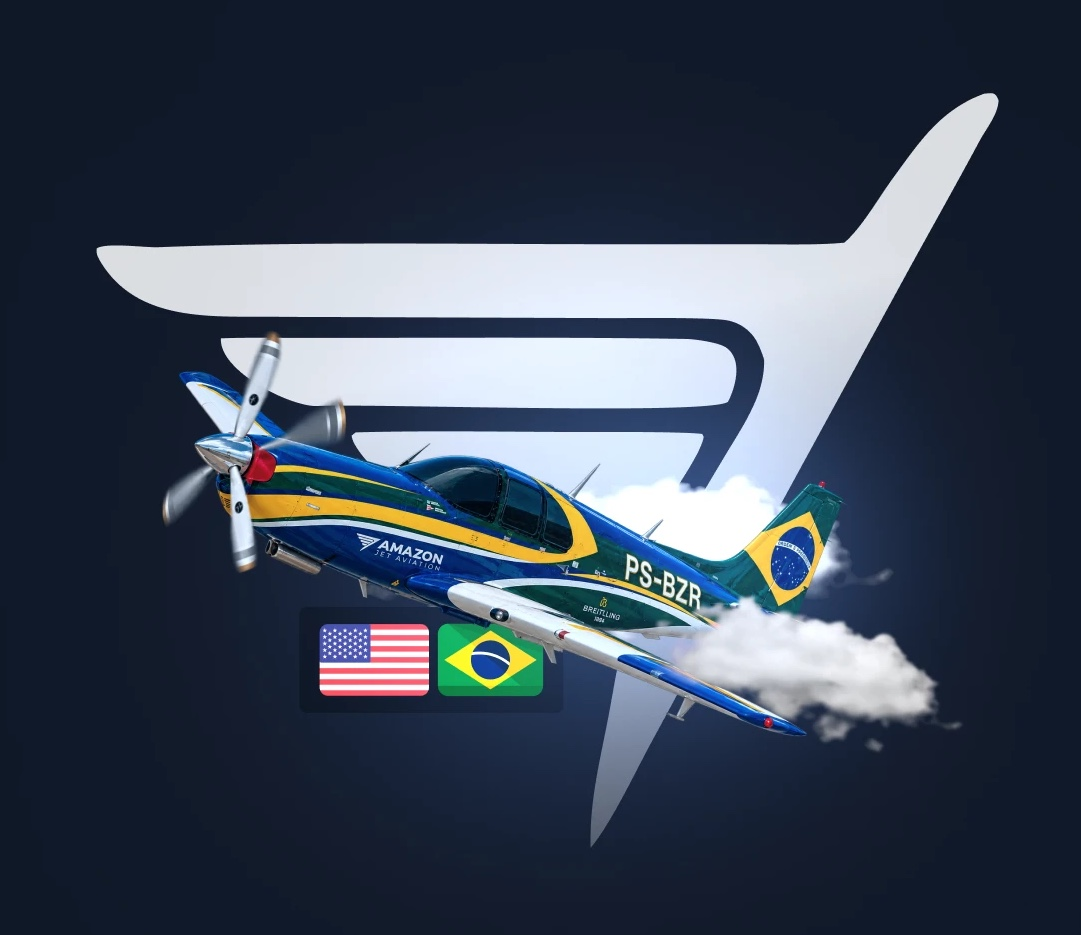
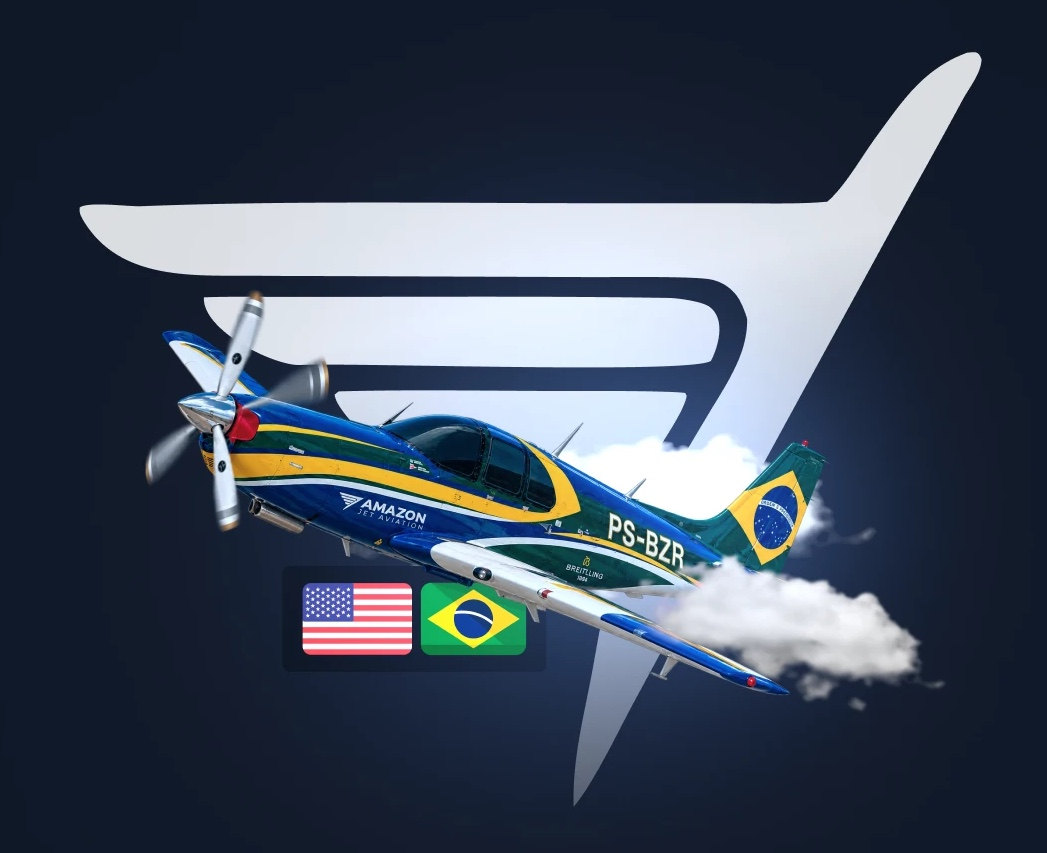
Avião de volta ao tamanho cheio e mapa animado da rota
O recorte da arte passa a ter 3,5% de margem, no lugar dos 30% que eu tinha
deixado: o avião volta a ocupar 86% do quadro, que é o tamanho marcado. A
margem continua suficiente para a iluminação morrer sozinha.

A dobra "do mercado americano para o seu hangar" ganha o mapa. É SVG
desenhado na página, sem biblioteca nem imagem: os contornos dos dois
países vêm do Natural Earth, domínio público, projetados em Mercator por
scripts/gerar-mapa.mjs e gravados como texto em mapa-paths.ts. Miami e
Brasília estão nas coordenadas reais, projetadas pelo mesmo cálculo, então
a rota desenhada é a rota de verdade.

O avião percorre a linha pelo offset-path, que recebe o mesmo caminho do
traçado — os dois não têm como sair de sincronia. Tracejado correndo,
pontos pulsando, tudo em CSS, e o prefers-reduced-motion já congela.

O SVG escala por viewBox, então serve de 320px ao monitor grande sem
recorte nem rolagem lateral.

diff --git a/src/components/home/mapa-paths.ts b/src/components/home/mapa-paths.ts
@@ -1,0 +1,20 @@
+// GERADO POR scripts/gerar-mapa.mjs — não editar à mão.
+//
+// Contornos de Estados Unidos continentais e Brasil, vindos do Natural
+// Earth (domínio público) via world-atlas, projetados em Mercator para o
+// viewBox 820x620 do mapa da rota. Ficam aqui como texto para o site não
+// carregar biblioteca de mapas nenhuma em produção.
+
+export const VIEW_BOX = '0 0 820 620';
+
+export const EUA =
+  'M159.2,43.5L175.7,43.5L193.0,43.5L198.7,43.5L216.4,43.5L233.6,43.5L251.0,43.5L268.5,43.5L288.2,43.5L308.1,43.5L320.2,43.5L320.2,40.0L322.2,40L323.2,44.9L325.0,46.4L329.0,46.9L335.0,48.3L340.6,51.0L345.3,49.9L352.5,52.2L354.4,52.1L359.6,49.6L365.1,52.8L370.7,56.1L375.4,59.0L380.0,61.7L380.5,63.9L381.9,64.8L381.5,65.6L383.1,65.9L384.2,65.0L384.5,67.0L385.7,68.3L387.3,68.3L388.1,69.3L387.4,70.8L393.5,74.7L394.7,82.2L395.9,89.2L394.2,93.9L391.4,98.3L390.2,101.0L390.0,101.8L390.7,103.0L392.7,104.2L394.1,104.2L400.9,100.0L406.9,98.8L414.5,94.8L414.6,94.0L414.1,91.6L413.1,90.0L415.7,88.8L421.5,88.7L426.8,88.7L428.7,85.6L429.4,85.0L435.5,79.1L438.1,77.6L447.0,77.5L457.7,77.5L458.3,75.5L460.1,75.1L462.6,73.8L464.7,70.0L466.4,63.5L470.9,57.0L472.8,59.3L476.7,57.8L479.3,60.3L479.3,71.8L483.1,76.5L484.1,79.2L477.9,83.1L471.9,85.9L465.8,88.3L462.7,93.0L461.7,94.8L461.6,99.0L463.6,103.2L466.0,103.4L465.4,100.5L467.1,102.2L466.7,104.5L462.7,105.7L459.9,105.6L455.6,106.9L453.1,107.3L449.7,107.7L444.9,109.9L453.4,108.5L455.1,109.9L447.0,112.2L443.3,112.3L443.5,111.3L441.7,113.5L443.4,113.8L442.2,119.3L437.9,125.0L437.5,123.1L436.2,122.7L434.3,120.8L435.5,124.9L436.9,126.2L437.1,129.0L435.2,131.9L431.9,137.8L431.4,137.5L433.2,132.5L430.2,129.7L429.5,123.5L428.4,126.7L429.6,131.4L425.8,130.2L429.8,132.6L430.1,139.6L431.7,140.1L432.3,142.6L433.1,149.8L429.5,155.1L423.4,157.2L419.6,161.3L416.7,161.7L413.8,164.3L412.9,166.7L406.6,171.1L403.3,174.4L400.5,178.5L399.6,183.3L400.7,188.0L402.6,193.7L405.2,198.4L405.2,201.2L408.0,208.8L407.8,213.2L407.5,215.7L406.1,219.7L404.4,220.5L401.5,219.7L400.6,216.9L398.4,215.4L395.3,209.8L392.6,204.8L391.7,202.3L392.9,197.9L391.3,194.2L386.7,188.6L384.5,187.6L378.6,190.7L377.6,190.3L374.7,187.2L371.1,185.5L364.5,186.4L359.4,185.6L354.9,186.1L352.5,187.1L353.6,188.9L353.5,191.6L354.7,193.0L353.6,193.8L351.4,192.8L349.3,194.1L345.0,193.9L340.7,190.4L335.6,191.2L331.4,189.7L327.8,190.1L322.9,191.7L317.6,196.6L311.8,199.5L308.6,202.6L307.3,205.6L307.3,210.1L307.6,213.2L308.6,215.4L306.4,215.6L302.3,214.2L297.7,212.2L296.1,209.1L294.8,204.5L291.4,200.8L289.4,196.9L286.5,192.4L282.3,189.7L277.6,189.8L273.9,195.1L269.1,193.1L266.1,191.1L264.7,187.4L262.7,183.9L259.3,180.9L256.3,178.7L254.2,176.3L244.1,176.3L244.1,179.1L239.5,179.1L227.9,179.2L214.7,174.4L205.9,171.0L206.4,169.7L199.0,170.4L192.4,171.0L191.5,167.4L187.7,163.4L185.0,162.6L184.3,160.6L181.1,160.2L179.0,158.3L173.6,157.6L172.1,156.5L171.4,152.6L165.8,145.4L160.9,135.3L161.1,133.6L158.6,131.2L154.1,125.0L153.3,118.8L150.2,114.7L151.4,108.3L151.2,101.6L149.4,95.6L151.7,88.1L152.4,80.7L153.1,73.3L152.0,62.0L150.2,54.7L148.5,50.6L149.2,48.9L157.6,51.9L160.7,60.0L162.1,57.8L161.2,50.7Z';
+
+export const BRASIL =
+  'M563.1,580L561.5,576.1L564.1,572.8L560.7,568.1L556.2,564.3L550.2,559.9L548.0,560.2L542.2,554.9L538.4,555.6L546.1,546.5L552.7,540.1L556.6,537.4L561.5,533.8L561.6,528.6L558.7,524.9L555.8,526.2L557.0,522.4L557.8,518.7L557.8,515.1L555.7,514.0L553.5,515.0L551.3,514.7L550.6,512.3L550.1,506.5L549.0,504.6L545.1,502.9L542.7,504.1L536.6,502.9L537.0,494.5L535.2,491.0L537.1,489.7L536.5,486.2L538.1,483.5L539.1,478.7L537.8,474.9L534.6,473.2L534.0,470.8L534.8,467.3L523.7,467.0L521.4,460.0L523.1,459.9L523.1,457.3L521.9,455.5L521.7,452.1L518.3,450.3L514.6,450.4L512.2,448.6L508.3,447.4L506.0,445.2L499.5,444.2L493.2,438.9L493.7,434.9L492.9,432.7L493.5,428.2L485.9,429.2L482.9,431.5L477.8,433.8L476.5,435.6L473.5,435.8L469.2,435.3L465.9,436.3L463.3,435.6L463.6,426.6L458.9,430.1L453.7,430.0L451.5,426.8L447.7,426.5L448.9,423.9L445.7,420.4L443.3,415.1L444.8,414.0L444.8,411.5L448.3,409.8L447.7,406.7L449.2,404.6L449.6,401.9L456.3,397.9L461.0,396.8L461.8,395.9L467.1,396.2L469.7,380.3L469.8,377.7L468.9,374.4L466.3,372.3L466.4,368.1L469.6,367.1L470.8,367.7L471.0,365.5L467.6,364.9L467.5,361.2L478.8,361.4L480.8,359.4L482.4,361.2L483.5,364.6L484.6,363.9L487.8,367.0L492.3,366.6L493.5,364.8L497.8,363.5L500.2,362.5L500.9,360.1L505.0,358.4L504.7,357.2L499.8,356.7L498.9,353.0L499.2,349.1L496.6,347.6L497.7,347.1L502.0,347.8L506.6,349.3L508.3,347.9L512.5,347.0L519.0,344.8L521.1,342.6L520.3,340.9L523.4,340.7L524.7,342.0L523.9,344.6L526.0,345.5L527.3,348.2L525.7,350.2L524.7,355.2L526.2,358.1L526.6,360.8L530.2,363.5L533.1,363.8L533.7,362.7L535.6,362.4L538.2,361.4L540.1,359.9L543.3,360.4L544.7,360.2L547.9,360.6L548.4,359.4L547.4,358.3L548.0,356.6L550.4,357.1L553.1,356.5L556.4,357.8L559.0,359.0L560.8,357.4L562.1,357.6L562.9,359.3L565.6,358.8L567.9,356.6L569.7,352.3L573.1,347.0L575.1,346.7L576.5,350.0L579.8,360.1L582.9,361.1L583.0,365.1L578.7,369.9L580.5,371.7L590.8,372.6L591.0,378.4L595.4,374.6L602.7,376.7L612.4,380.2L615.2,383.6L614.2,386.9L621,385.1L632.3,388.1L641.0,387.9L649.6,392.7L657.0,399.3L661.5,400.9L666.5,401.2L668.6,403.0L670.5,410.5L671.5,414.0L669.2,423.7L666.2,427.6L658.0,435.8L654.3,442.5L650.0,447.7L648.6,447.8L647.0,452.2L647.4,463.5L645.8,472.8L645.1,476.8L643.3,479.2L642.3,487.4L636.4,495.5L635.4,502.0L630.7,504.7L629.3,508.5L623.0,508.5L613.8,510.9L609.8,513.7L603.3,515.6L596.4,520.7L591.5,527.0L590.6,531.9L591.6,535.5L590.5,542.1L589.2,545.4L585.1,549.0L578.7,560.8L573.6,566.2L569.6,569.5L567.0,576.0Z';
+
+/** Miami, FL — de onde a peça sai. */
+export const ORIGEM = { x: 407, y: 216 };
+
+/** Brasília — o destino, no meio do país. */
+export const DESTINO = { x: 595, y: 464 };

diff --git a/src/components/home/mapa-rota.tsx b/src/components/home/mapa-rota.tsx
@@ -1,0 +1,118 @@
+import { BRASIL, DESTINO, EUA, ORIGEM, VIEW_BOX } from './mapa-paths';
+
+/**
+ * Mapa da rota Estados Unidos → Brasil, em SVG.
+ *
+ * Os contornos dos dois países vêm do Natural Earth, domínio público, já
+ * projetados em Mercator e gravados como texto em `mapa-paths.ts` por
+ * `scripts/gerar-mapa.mjs`. Em produção não entra biblioteca de mapas
+ * nenhuma: é um SVG e duas regras de CSS.
+ *
+ * Miami e Brasília estão nas coordenadas reais delas, projetadas pelo mesmo
+ * cálculo — a rota desenhada é a rota de verdade.
+ *
+ * O avião anda pelo `offset-path`, que recebe exatamente o mesmo `d` da
+ * linha, então os dois nunca saem de sincronia. Toda a animação é CSS, e o
+ * `prefers-reduced-motion` do site já congela tudo.
+ */
+
+const ROTA = `M ${ORIGEM.x} ${ORIGEM.y} C ${ORIGEM.x + 118} ${ORIGEM.y + 26} ${
+  DESTINO.x + 42
+} ${DESTINO.y - 150} ${DESTINO.x} ${DESTINO.y}`;
+
+export function MapaRota({ origem, destino }: { origem: string; destino: string }) {
+  return (
+    <svg
+      viewBox={VIEW_BOX}
+      role="img"
+      aria-label={`Mapa da rota de ${origem} até ${destino}`}
+      className="h-auto w-full"
+    >
+      <defs>
+        <radialGradient id="brilho-rota" cx="52%" cy="48%" r="58%">
+          <stop offset="0%" stopColor="#3f87f5" stopOpacity="0.2" />
+          <stop offset="100%" stopColor="#3f87f5" stopOpacity="0" />
+        </radialGradient>
+
+        <pattern id="malha-rota" width="26" height="26" patternUnits="userSpaceOnUse">
+          <circle cx="1.5" cy="1.5" r="1.5" fill="#dde6f2" opacity="0.12" />
+        </pattern>
+
+        <linearGradient id="terra-rota" x1="0" y1="0" x2="0" y2="1">
+          <stop offset="0%" stopColor="#dde6f2" stopOpacity="0.17" />
+          <stop offset="100%" stopColor="#dde6f2" stopOpacity="0.06" />
+        </linearGradient>
+      </defs>
+
+      <rect width="100%" height="100%" fill="url(#brilho-rota)" />
+      <rect width="100%" height="100%" fill="url(#malha-rota)" />
+
+      <g
+        fill="url(#terra-rota)"
+        stroke="#93a6bd"
+        strokeOpacity="0.5"
+        strokeWidth="1.2"
+        strokeLinejoin="round"
+      >
+        <path d={EUA} />
+        <path d={BRASIL} />
+      </g>
+
+      {/* A rota: um traço contínuo de base e, por cima, o tracejado que
+          corre no sentido da viagem. */}
+      <path d={ROTA} fill="none" stroke="#f0ad13" strokeOpacity="0.25" strokeWidth="2.5" />
+      <path
+        d={ROTA}
+        fill="none"
+        stroke="#f0ad13"
+        strokeWidth="2.5"
+        strokeLinecap="round"
+        strokeDasharray="10 14"
+        className="rota-correndo"
+      />
+
+      <Ponto {...ORIGEM} rotulo={origem} ancora="end" deslocamento={-14} />
+      <Ponto {...DESTINO} rotulo={destino} ancora="start" deslocamento={16} />
+
+      {/* offset-rotate: auto faz o bico acompanhar a curva. */}
+      <g className="aviao-rota" style={{ offsetPath: `path("${ROTA}")` }}>
+        <path
+          d="M 14 0 L -10 -8 L -4 0 L -10 8 Z"
+          fill="#f0ad13"
+          stroke="#f0ad13"
+          strokeWidth="2.5"
+          strokeLinejoin="round"
+        />
+      </g>
+    </svg>
+  );
+}
+
+function Ponto({
+  x,
+  y,
+  rotulo,
+  ancora,
+  deslocamento,
+}: {
+  x: number;
+  y: number;
+  rotulo: string;
+  ancora: 'start' | 'end';
+  deslocamento: number;
+}) {
+  return (
+    <g>
+      <circle cx={x} cy={y} r="7" fill="#f0ad13" fillOpacity="0.3" className="ponto-pulso" />
+      <circle cx={x} cy={y} r="4.5" fill="#f0ad13" />
+      <text
+        x={x + deslocamento}
+        y={y - 15}
+        textAnchor={ancora}
+        className="fill-white font-display text-[24px] font-semibold"
+      >
+        {rotulo}
+      </text>
+    </g>
+  );
+}

diff --git a/src/components/home/hero.tsx b/src/components/home/hero.tsx
@@ -31,29 +31,20 @@ export function Hero({ aogHref }: { aogHref: string }) {
   return (
     <section className="relative isolate overflow-hidden bg-hero">
       {/*
-        Duas versões do mesmo quadro: a ampla guarda as margens da
-        iluminação, que é o que tirou o corte seco em cima e embaixo; a
-        estreita é para o celular, onde a altura é curta e a margem só
-        roubaria espaço.
+        Um arquivo só, recortado com 3,5% de margem em volta do avião. É
+        margem suficiente para a iluminação morrer sozinha — o corte seco
+        que aparecia antes vinha do arquivo antigo, em que o brilho ainda
+        estava visível na borda.
       */}
       <div className="px-4 pt-6 sm:px-6 sm:pt-10 lg:pointer-events-none lg:absolute lg:inset-y-0 lg:right-0 lg:w-1/2 lg:px-0 lg:pt-0">
         <Image
           src="/hero/aviao.jpg"
           alt=""
-          width={1081}
-          height={935}
+          width={1047}
+          height={853}
           priority
-          sizes="300px"
-          className="mx-auto h-[165px] w-auto sm:h-[260px] lg:hidden"
-        />
-        <Image
-          src="/hero/aviao-amplo.jpg"
-          alt=""
-          width={1494}
-          height={1407}
-          priority
-          sizes="50vw"
-          className="hidden lg:absolute lg:inset-0 lg:block lg:h-full lg:w-full lg:object-contain"
+          sizes="(min-width: 1024px) 50vw, 300px"
+          className="mx-auto h-[165px] w-auto sm:h-[260px] lg:absolute lg:inset-0 lg:h-full lg:w-full lg:max-w-none lg:object-contain"
         />
       </div>
 

diff --git a/src/components/home/proof.tsx b/src/components/home/proof.tsx
@@ -23,6 +23,7 @@ type Icon = React.ComponentType<{
 }>;
 
 import { Reveal, Section, SectionTitle } from '@/components/section';
+import { MapaRota } from '@/components/home/mapa-rota';
 
 /* ------------------------------------------------------- diferenciais */
 
@@ -129,15 +130,21 @@ export function GlobalReach() {
 
   return (
     <Section tom="night-2">
-      <Reveal className="mx-auto max-w-3xl text-center">
-        <span className="mx-auto grid size-14 place-items-center rounded-xl bg-tag/12 text-tag">
-          <GlobeHemisphereWest size={28} weight="duotone" />
-        </span>
-        <SectionTitle>{t('title')}</SectionTitle>
-        <p className="measure mx-auto mt-5 text-base leading-relaxed text-mist-soft sm:text-lg">
-          {t('text')}
-        </p>
-      </Reveal>
+      <div className="grid items-center gap-10 lg:grid-cols-[0.9fr_1.1fr] lg:gap-16">
+        <Reveal>
+          <span className="grid size-14 place-items-center rounded-xl bg-tag/12 text-tag">
+            <GlobeHemisphereWest size={28} weight="duotone" />
+          </span>
+          <SectionTitle className="mt-6">{t('title')}</SectionTitle>
+          <p className="measure mt-5 text-base leading-relaxed text-mist-soft sm:text-lg">
+            {t('text')}
+          </p>
+        </Reveal>
+
+        <Reveal atraso={120}>
+          <MapaRota origem={t('origem')} destino={t('destino')} />
+        </Reveal>
+      </div>
     </Section>
   );
 }

diff --git a/src/app/globals.css b/src/app/globals.css
@@ -308,6 +308,61 @@
     }
   }
 
+  /* ------------------------------------------------ mapa da rota */
+
+  /* O tracejado corre no sentido da viagem, como um radar. */
+  @keyframes correr-traco {
+    to {
+      stroke-dashoffset: -48;
+    }
+  }
+
+  .rota-correndo {
+    animation: correr-traco 1.6s linear infinite;
+  }
+
+  /* O avião percorre o mesmo caminho da linha, pelo offset-path. */
+  @keyframes voar-rota {
+    0% {
+      offset-distance: 0%;
+      opacity: 0;
+    }
+    8%,
+    92% {
+      opacity: 1;
+    }
+    100% {
+      offset-distance: 100%;
+      opacity: 0;
+    }
+  }
+
+  .aviao-rota {
+    offset-rotate: auto;
+    animation: voar-rota 6s cubic-bezier(0.45, 0, 0.55, 1) infinite;
+  }
+
+  @keyframes pulsar-ponto {
+    0% {
+      transform: scale(1);
+      opacity: 0.55;
+    }
+    70% {
+      transform: scale(3.2);
+      opacity: 0;
+    }
+    100% {
+      transform: scale(3.2);
+      opacity: 0;
+    }
+  }
+
+  .ponto-pulso {
+    transform-box: fill-box;
+    transform-origin: center;
+    animation: pulsar-ponto 2.6s ease-out infinite;
+  }
+
   @keyframes marquee {
     from {
       transform: translateX(0);
